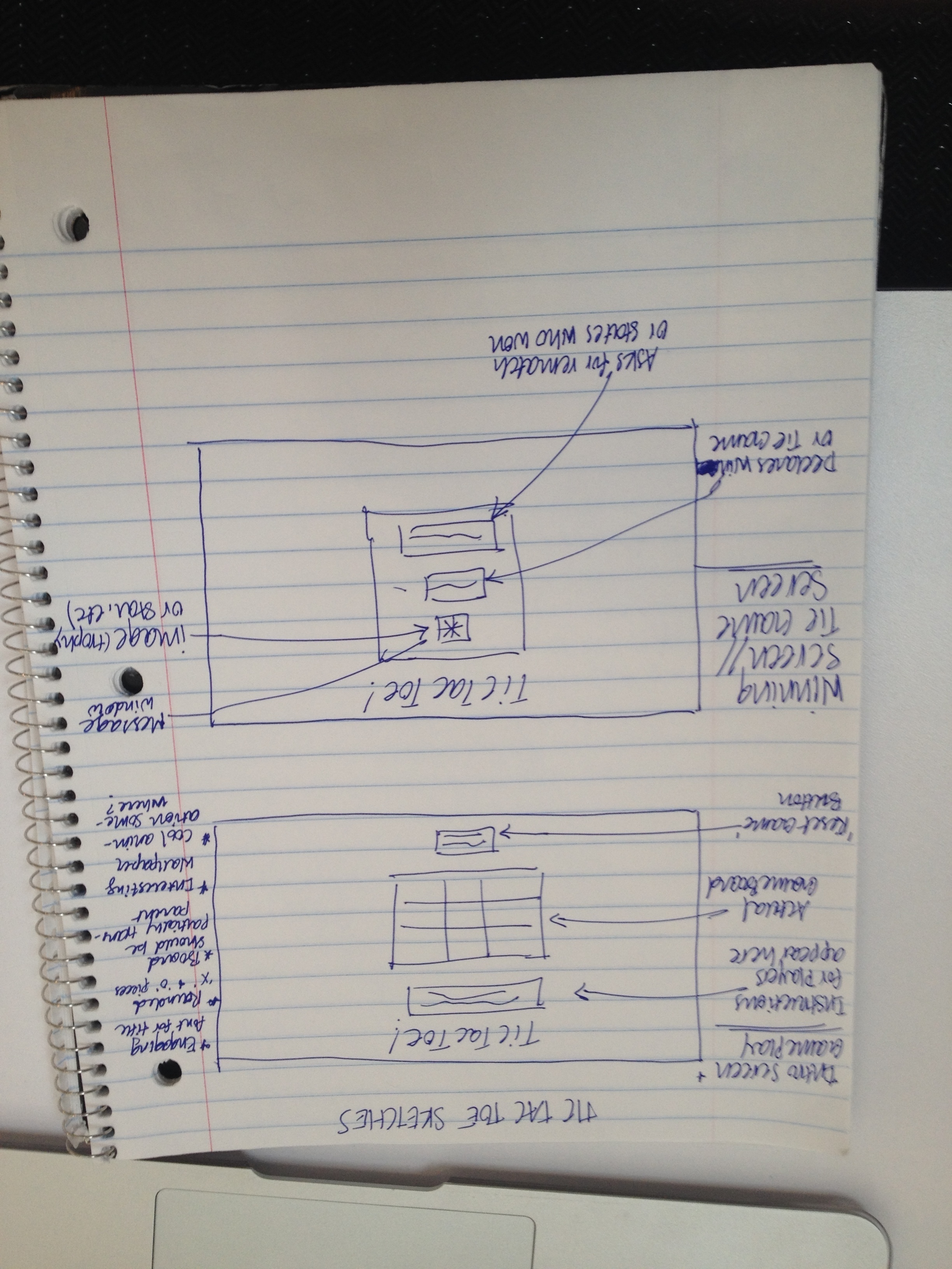
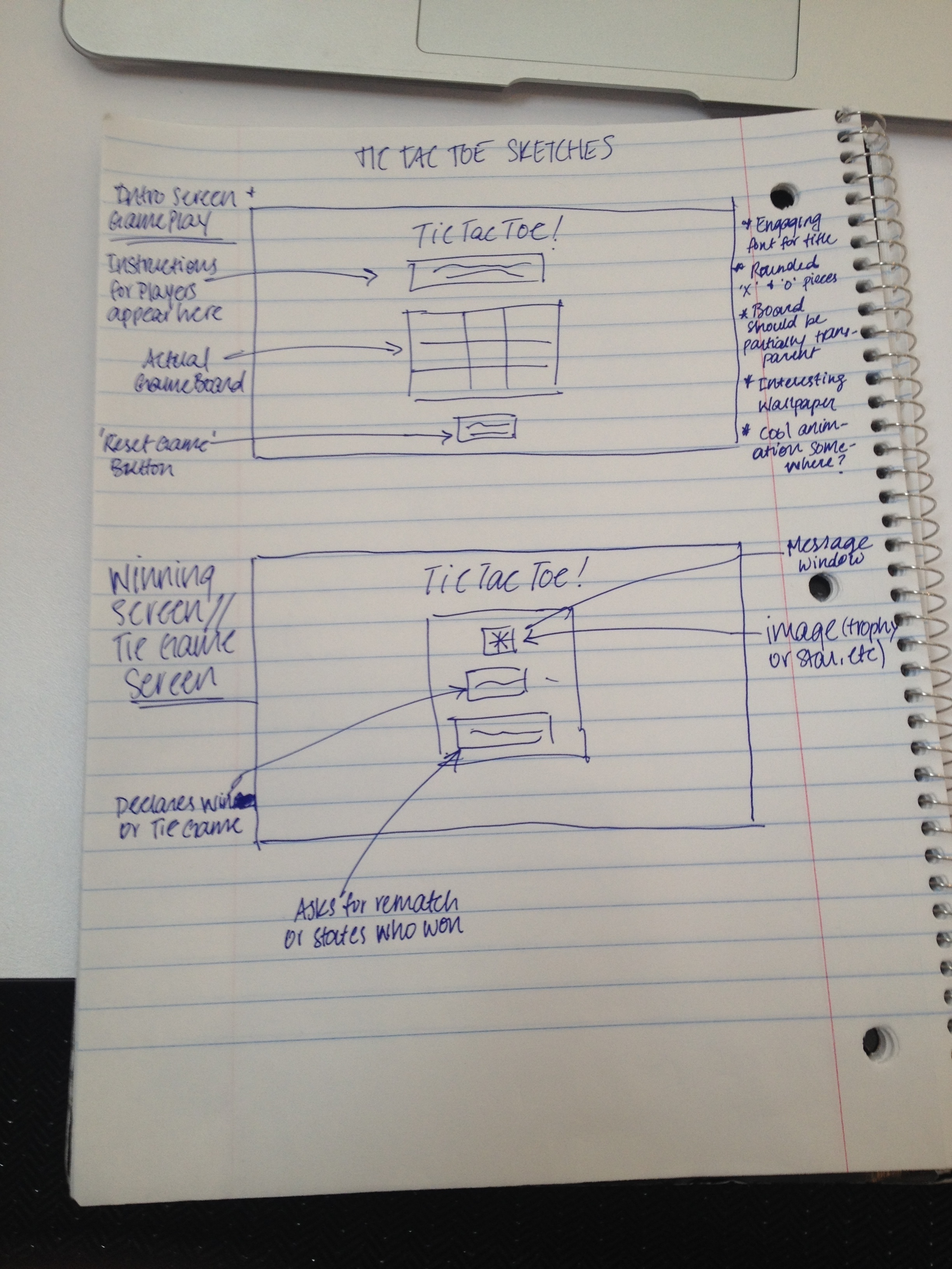
trying to rotate image try2

diff --git a/readme.md b/readme.md
@@ -15,5 +15,5 @@
   <li>A link to the source code is available on GitHub <a href="https://github.com/svpanchal/tttproject1" target ="_blank">here.</a></li>
 
 <h5>
-  <img src="https://github.com/svpanchal/tttproject1/blob/master/app/images/IMG_6281.jpeg">
+!(http://i60.tinypic.com/dxirsp.jpg)
 </h5>
